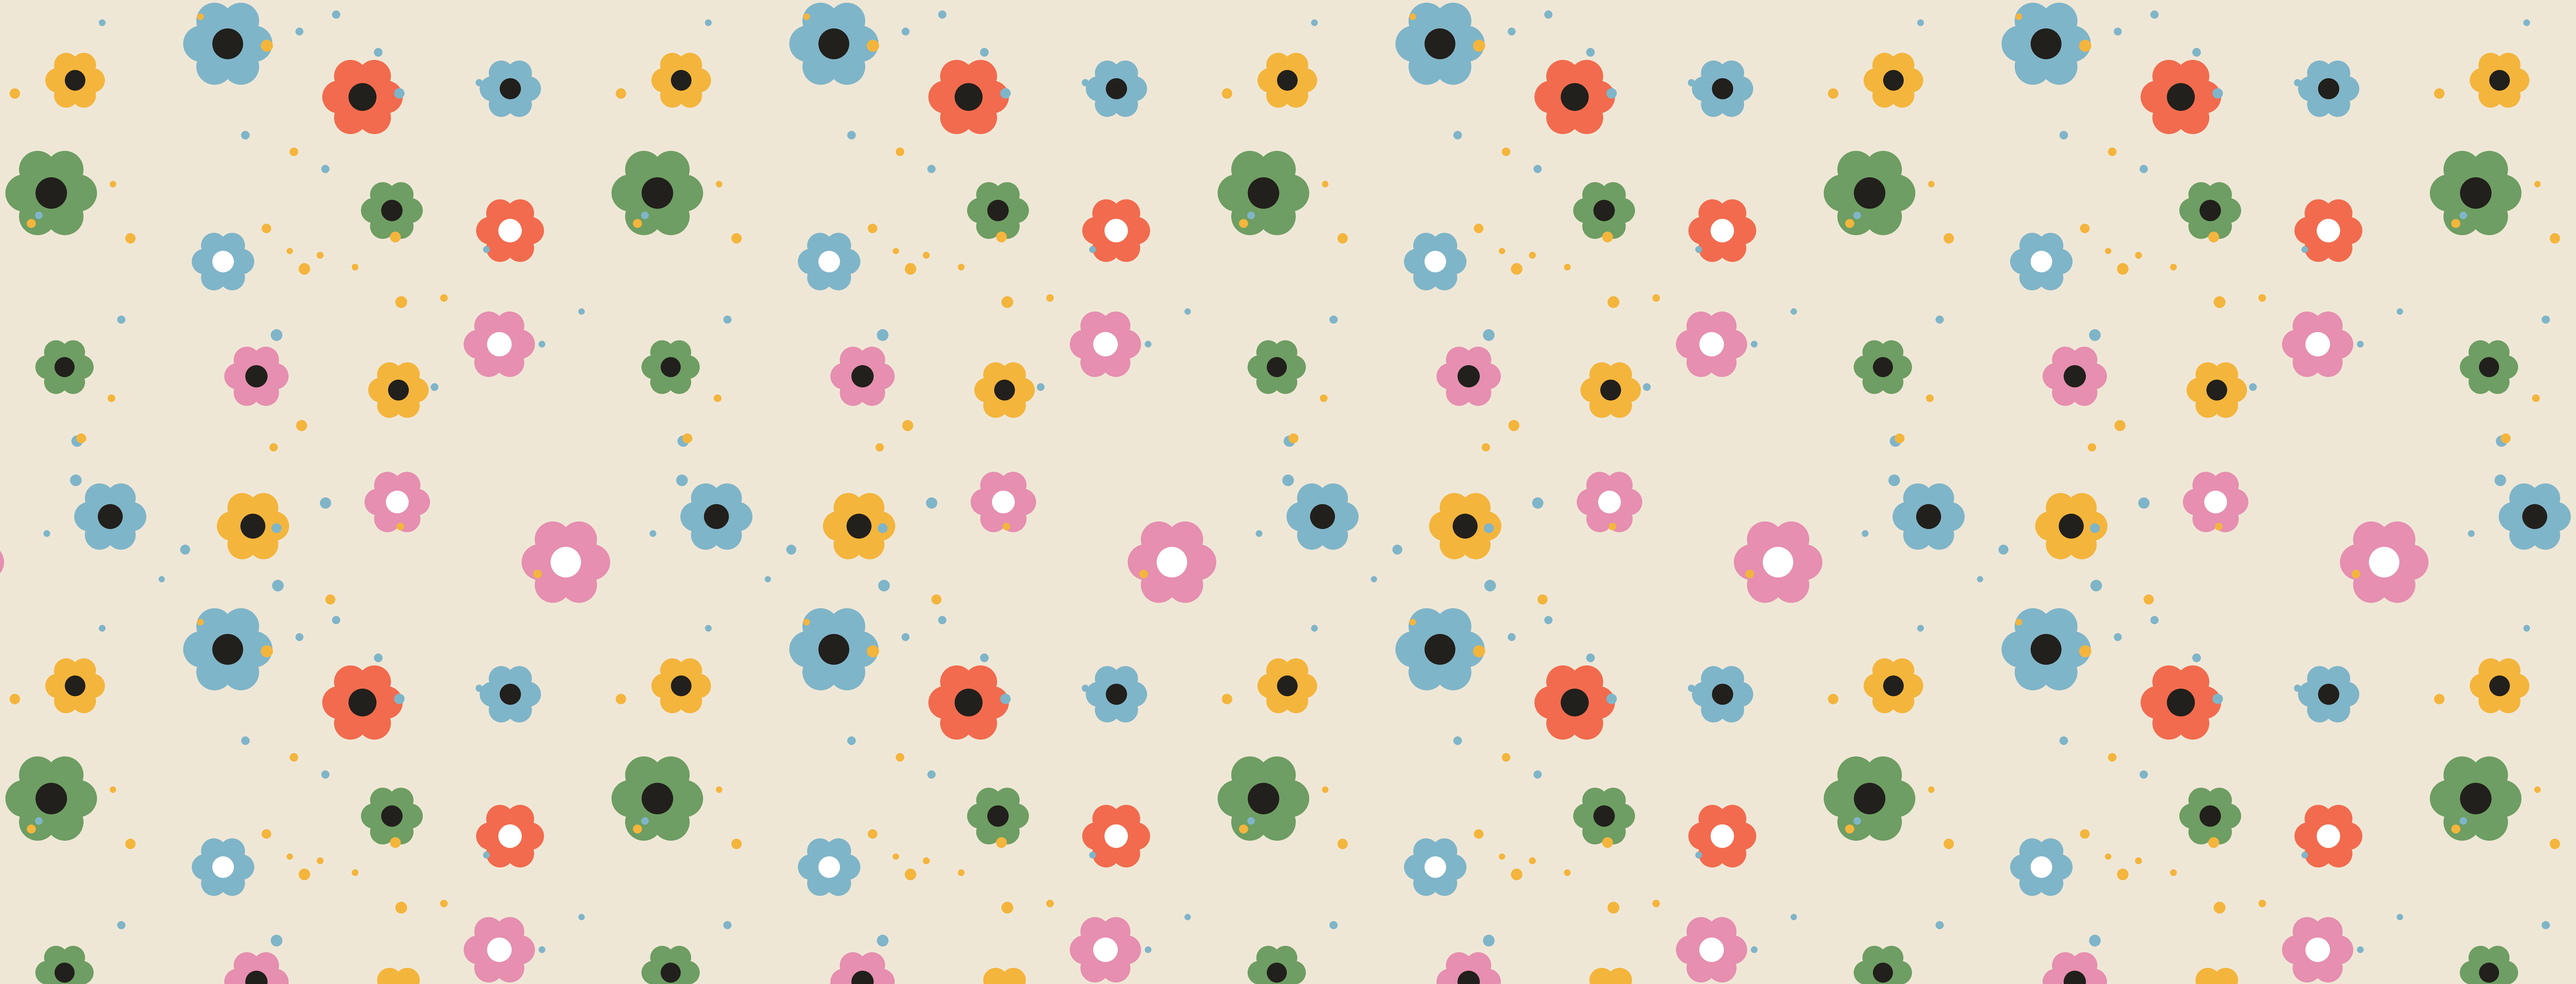
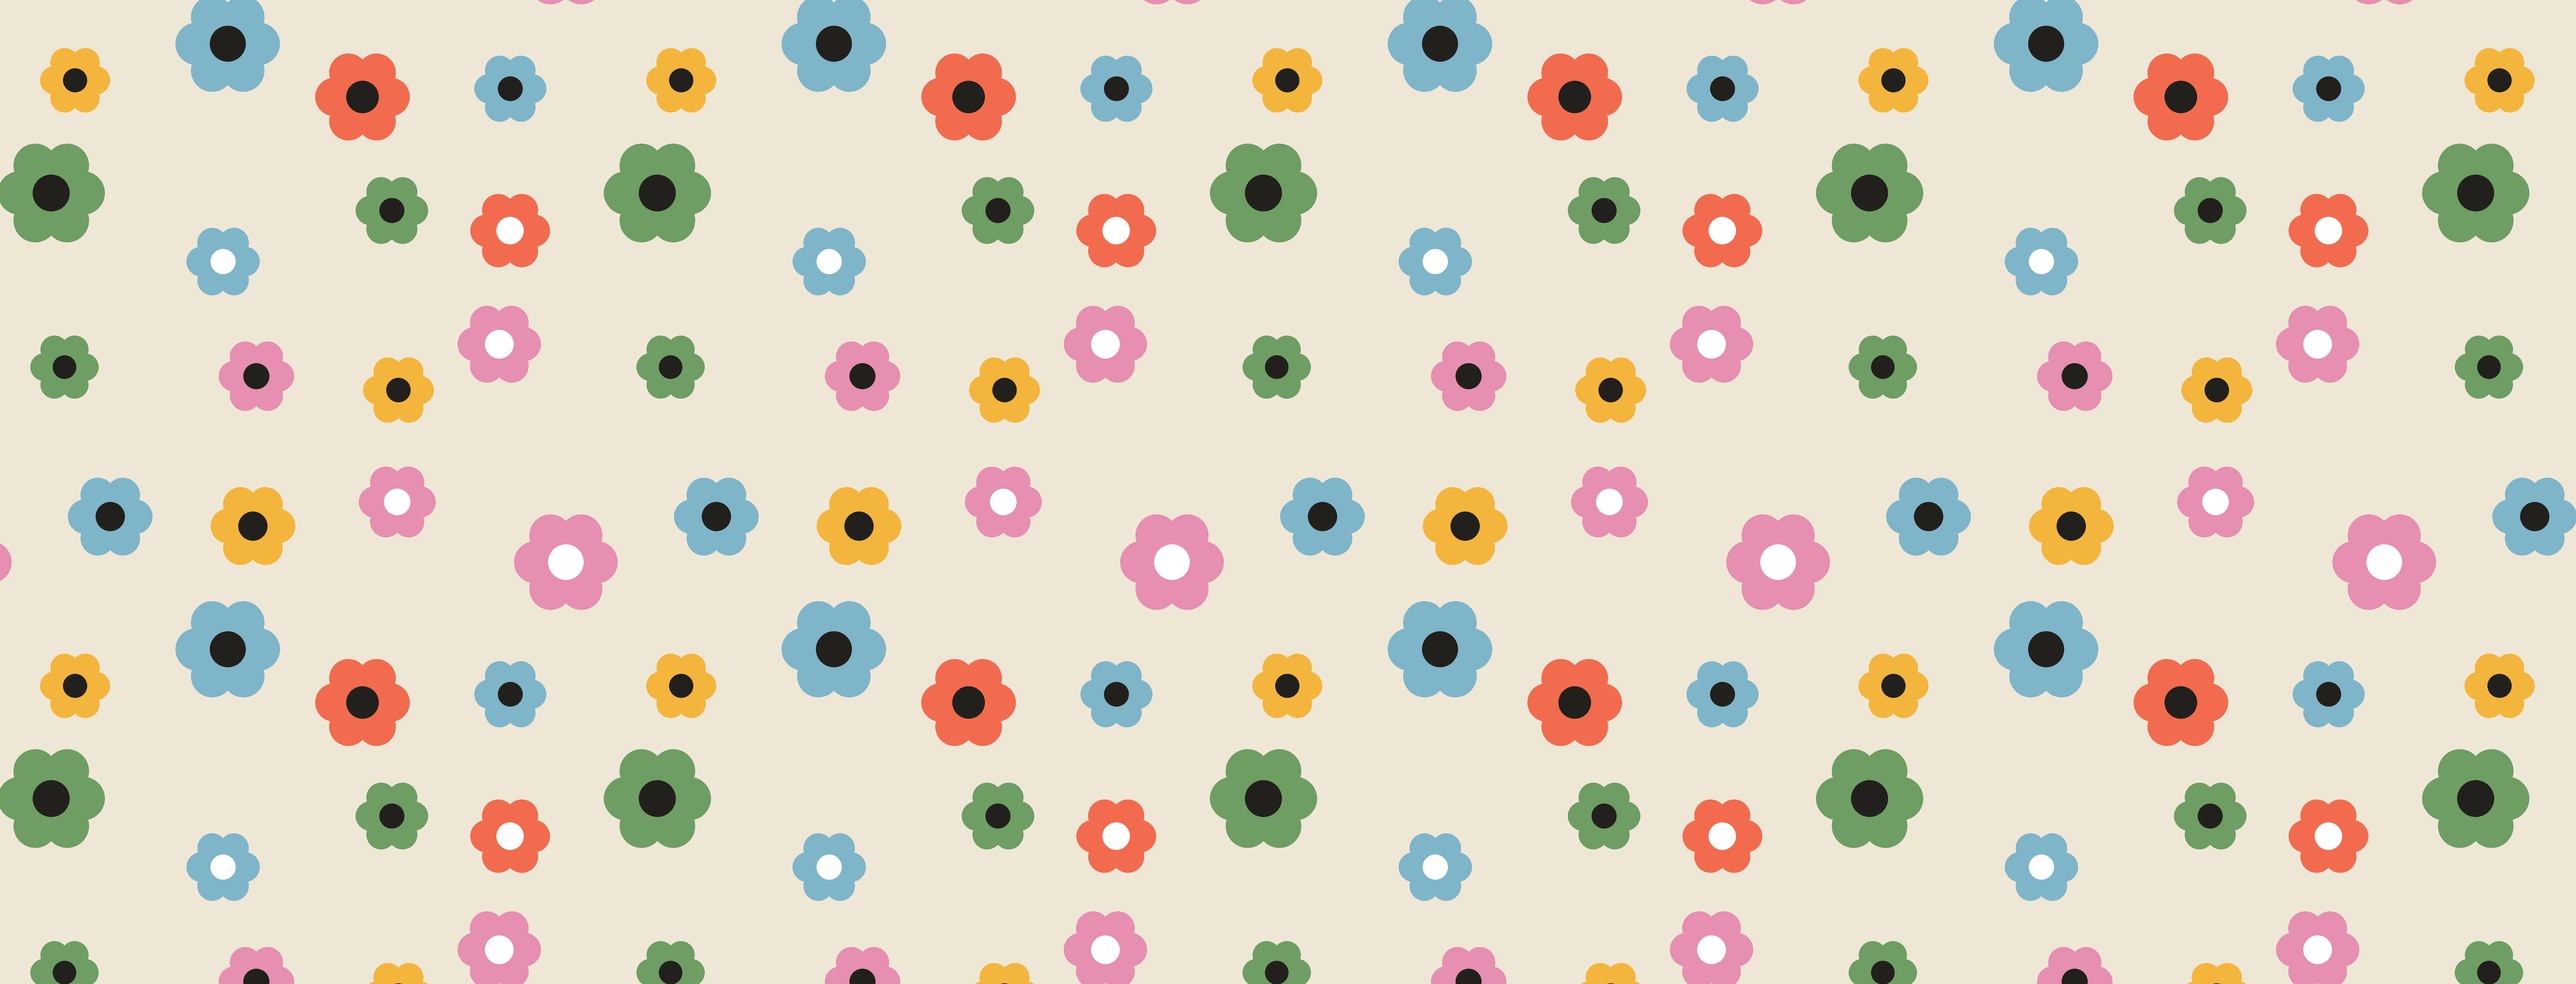
Refine prints: drop abstract confetti dots; bigger bolder clouds
Claude-Session: https://claude.ai/code/session_012Ro7nE8w8xabqixMQGwZGk

diff --git a/assets/scripts/modern_flower.py b/assets/scripts/modern_flower.py
@@ -57,9 +57,7 @@ def flower_tile(ground="cream"):
         for i in range(gx):
             cx = cw*(i+0.5) + (r()-0.5)*cw*0.5
             cy = ch*(j+0.5) + (r()-0.5)*ch*0.5
-            flower(cx, cy, (0.85+r()*0.6)*SS, PETALS[int(r()*len(PETALS))], CENTERS[int(r()*len(CENTERS))])
-    for _ in range(46):
-        circle(r()*n, r()*n, (6+r()*6)*SS, "butter" if r() > 0.5 else "sky")
+            flower(cx, cy, (1.0+r()*0.7)*SS, PETALS[int(r()*len(PETALS))], CENTERS[int(r()*len(CENTERS))])
     return img.resize((TILE, TILE), Image.LANCZOS)
 
 
@@ -79,27 +77,24 @@ def clouds_tile(ground_hex="#8fc2d6"):
     white = _h("#ffffff")
 
     def cloud(cx, cy, scale):
-        R = 42*scale*SS
-        puffs = [(-1.9, 0.62), (-1.0, 0.95), (0.0, 1.12), (1.0, 0.9), (1.9, 0.6)]
+        R = 92*scale*SS                      # bigger, bolder clouds
+        puffs = [(-1.95, 0.6), (-1.05, 1.0), (0.0, 1.25), (1.05, 0.98), (1.95, 0.58)]
         for ox, rr in puffs:
             rad = R*rr
-            circle(cx+ox*R, cy - rad + R*1.12, rad, white)  # bottoms roughly aligned
-        # flatten the base
-        d.rectangle([cx-2.3*R, cy+R*0.12-R*0.5, cx+2.3*R, cy+R*0.12], fill=white)
+            circle(cx+ox*R, cy - rad + R*1.2, rad, white)   # bottoms roughly aligned
+        d.rectangle([cx-2.4*R, cy+R*0.2-R*0.6, cx+2.4*R, cy+R*0.2], fill=white)
 
-    # little sun
+    # a couple of suns (representational, not abstract)
     sun_c = _h(PALETTE["butter"])
-    sx, sy, sr = n*0.8, n*0.18, 26*SS
-    for i in range(12):
-        a = i*2*math.pi/12
-        circle(sx+math.cos(a)*(sr+14*SS), sy+math.sin(a)*(sr+14*SS), 5*SS, sun_c)
-    circle(sx, sy, sr, sun_c)
+    for sx, sy, sr in [(n*0.82, n*0.16, 40*SS), (n*0.16, n*0.62, 32*SS)]:
+        for i in range(12):
+            a = i*2*math.pi/12
+            circle(sx+math.cos(a)*(sr+18*SS), sy+math.sin(a)*(sr+18*SS), 7*SS, sun_c)
+        circle(sx, sy, sr, sun_c)
 
-    for cy0, sc in [(n*0.20, 0.9), (n*0.46, 1.15), (n*0.72, 0.85), (n*0.95, 1.0)]:
-        cx0 = r()*n
+    # big clouds, well spaced, seamless
+    for cx0, cy0, sc in [(n*0.30, n*0.26, 1.05), (n*0.74, n*0.52, 1.2), (n*0.22, n*0.86, 0.95)]:
         cloud(cx0, cy0, sc)
-    for _ in range(28):
-        circle(r()*n, r()*n, 4*SS, white)
     return img.resize((TILE, TILE), Image.LANCZOS)
 
 
